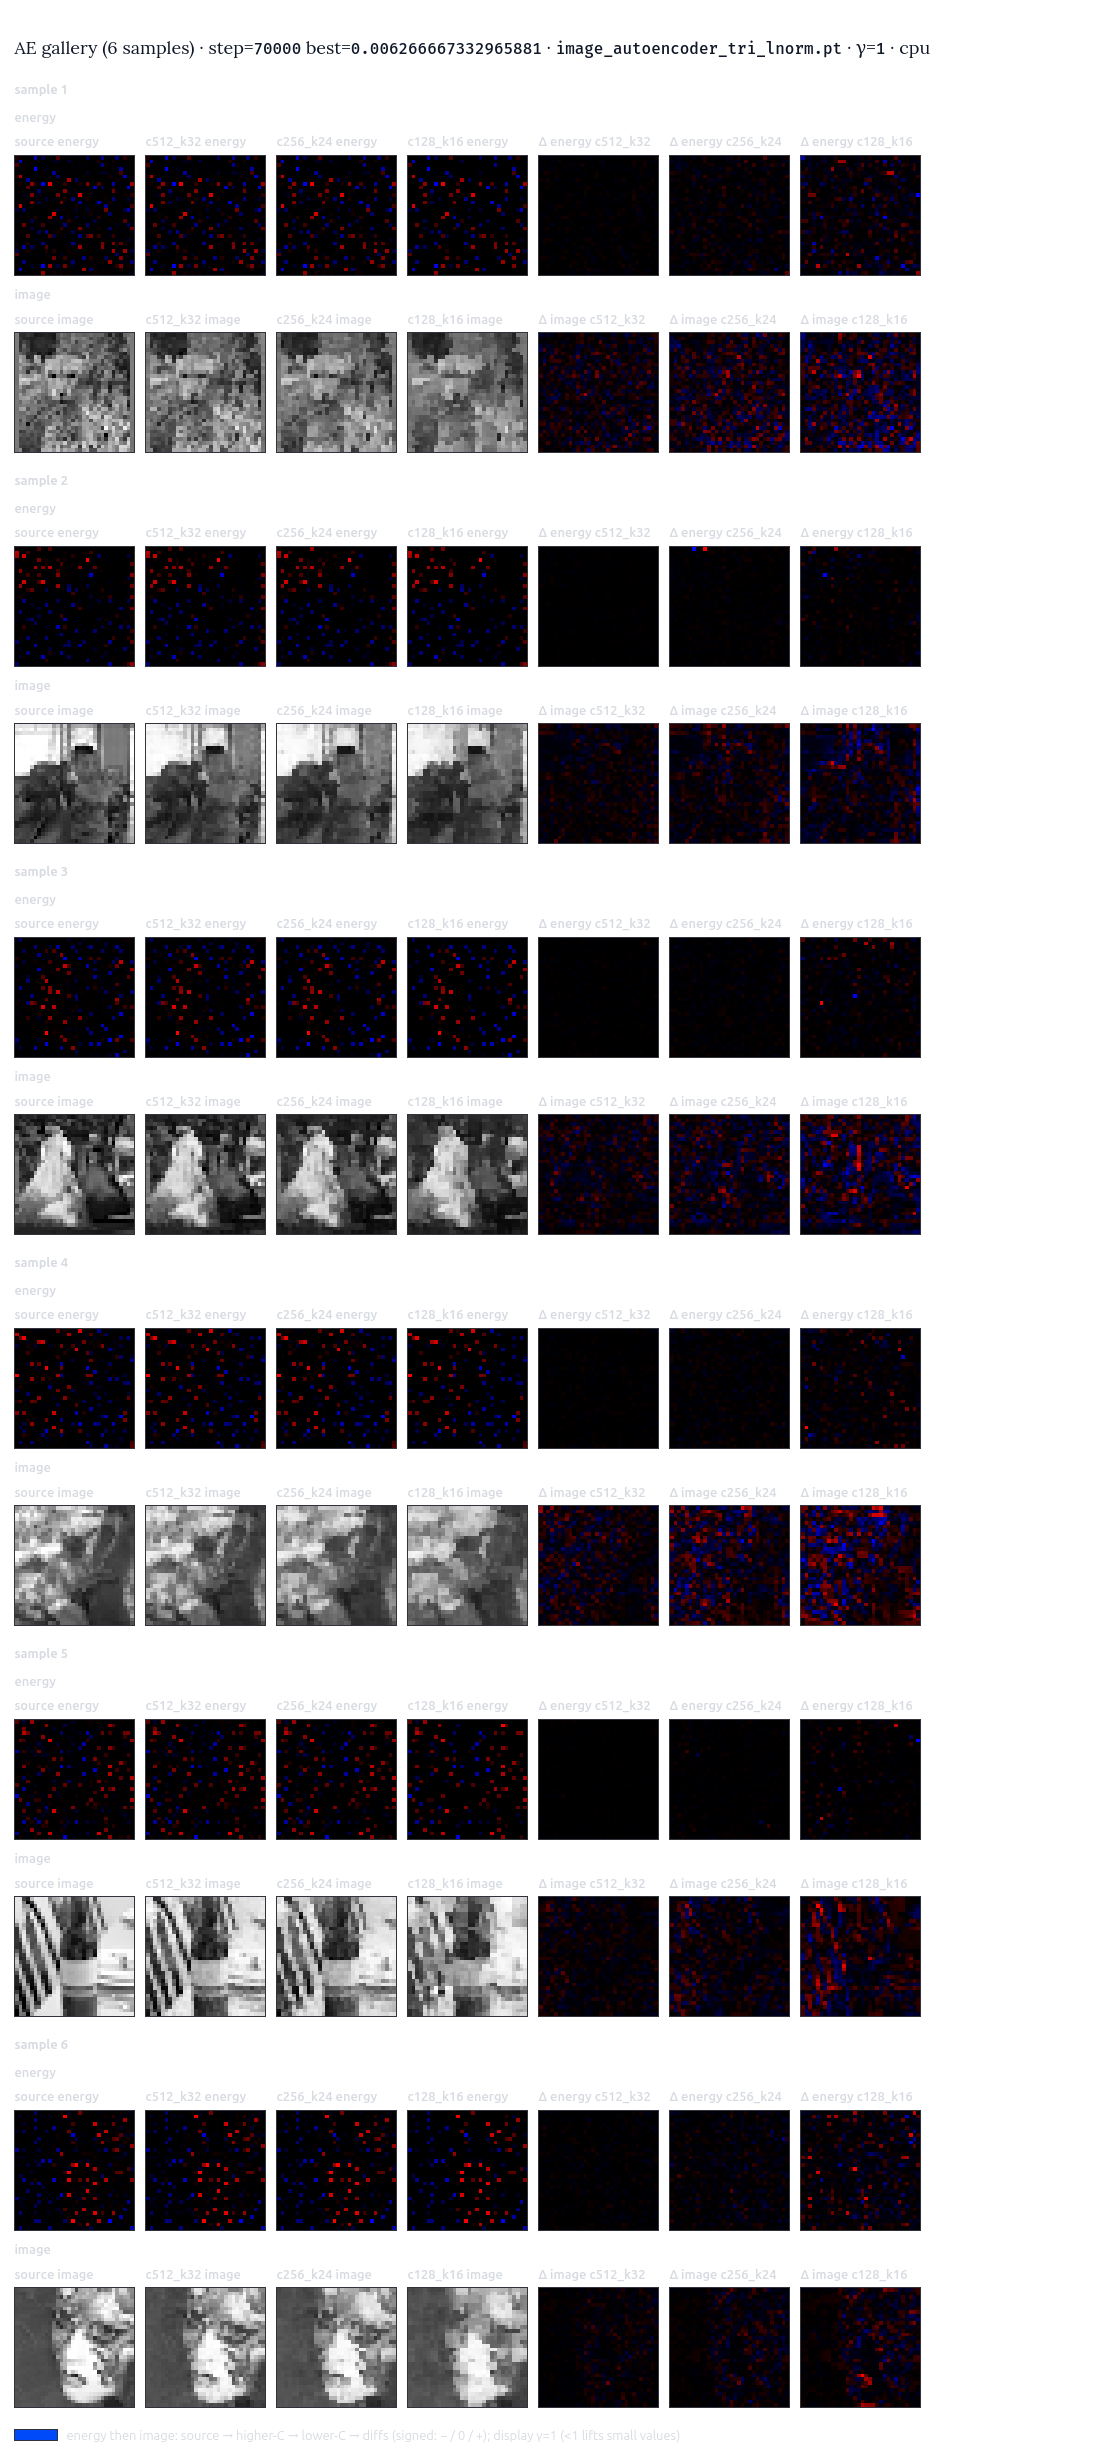
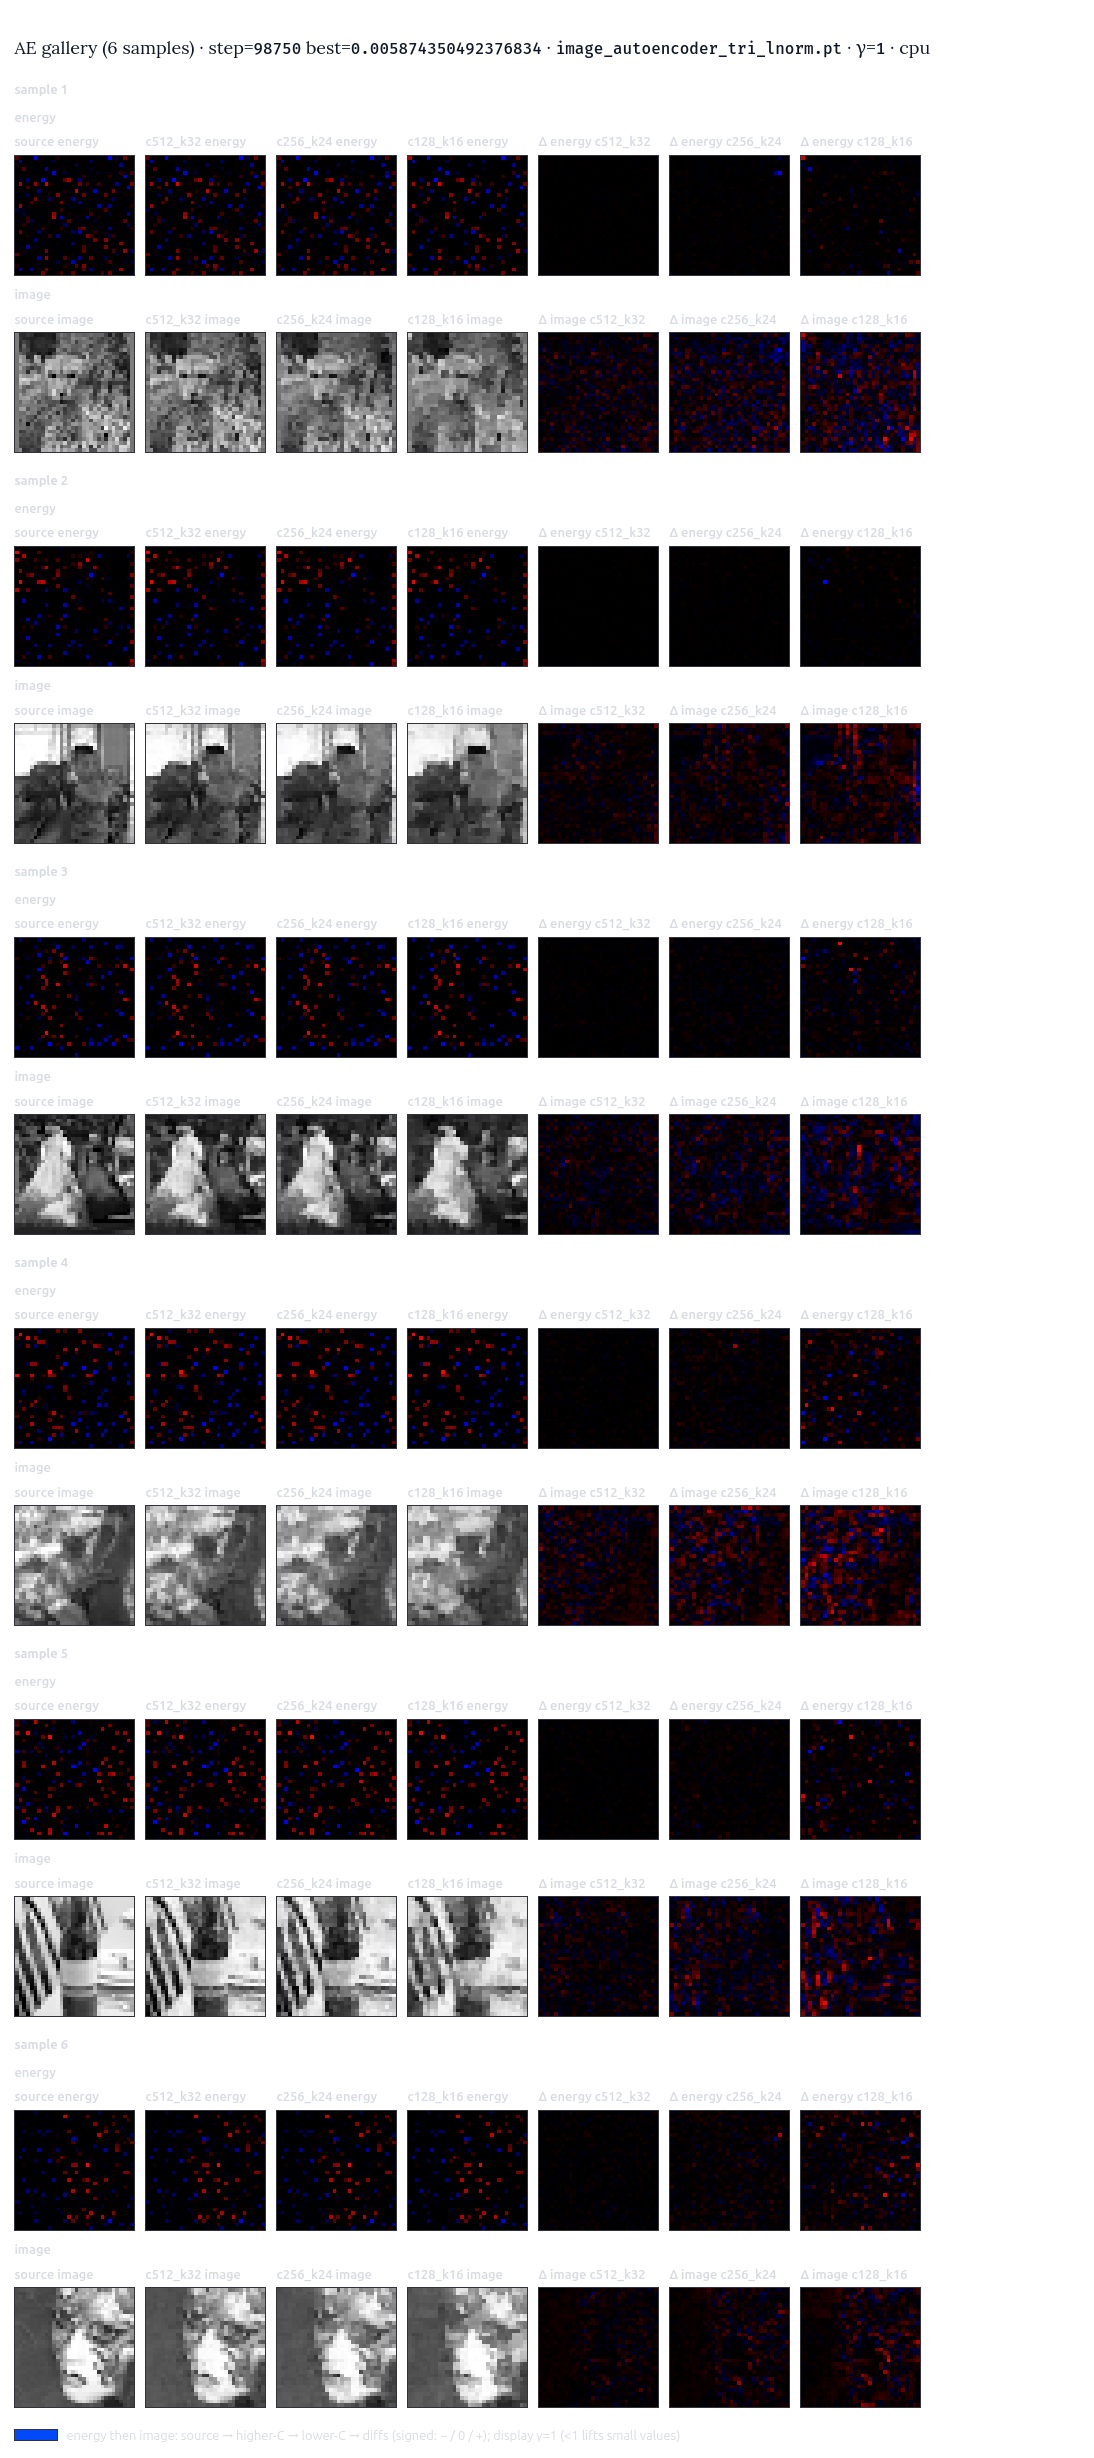
Update screenshots

diff --git a/README.md b/README.md
@@ -87,7 +87,7 @@ practice — details in [training stack](doc/training-stack.md).
 ## Snapshot
 
 Tri-pair AE (`c128_k16` / `c256_k24` / `c512_k32`) on 32×32 grayscale images —
-gallery and curves around 70k steps (`image_autoencoder_tri_lnorm`).
+gallery and curves around 100k steps (`image_autoencoder_tri_lnorm`).
 
 ![AE gallery](doc/assets/ae-gallery.png)
 
